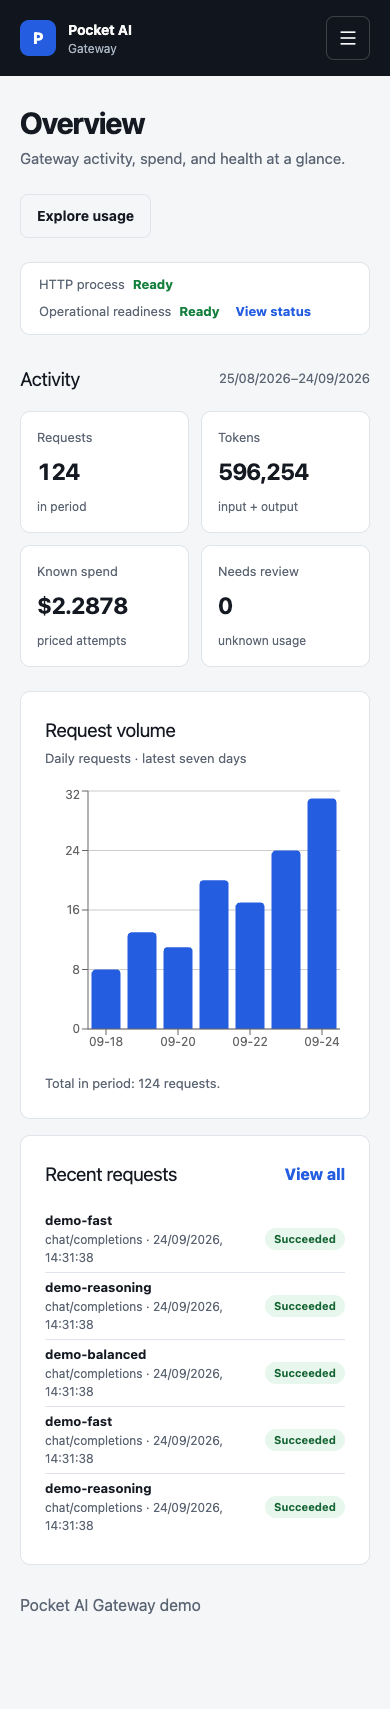
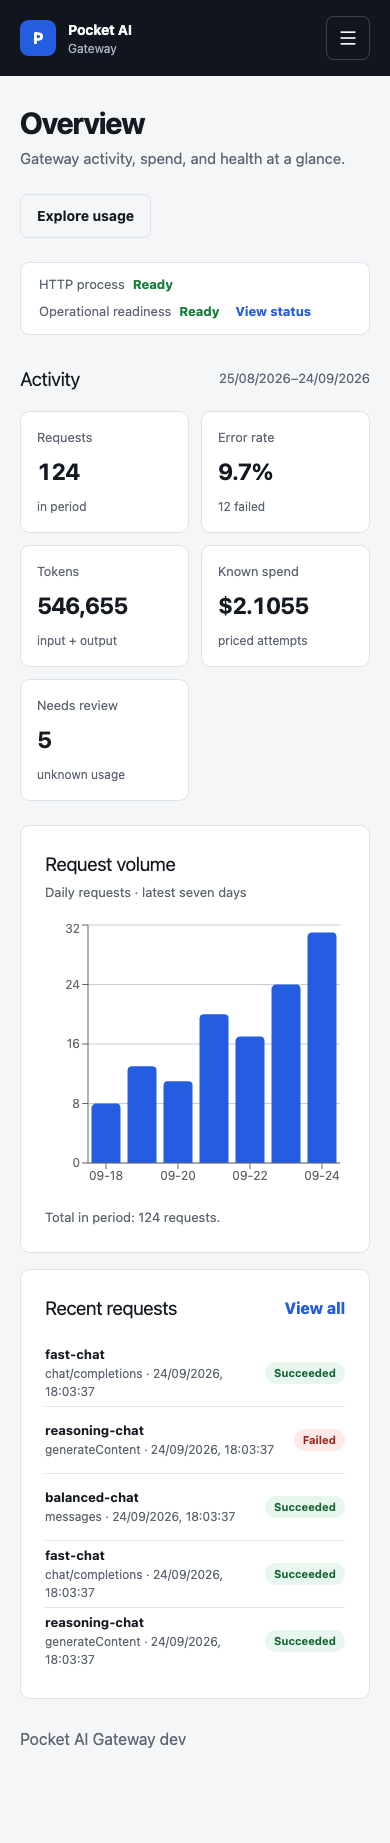
docs: refresh example gallery and release evidence

diff --git a/scripts/demo/seed.go b/scripts/demo/seed.go
@@ -54,7 +54,7 @@ func newDemo(ctx context.Context, origin string) (_ *demo, err error) {
 		return nil, err
 	}
 	authService := auth.New(d.store.SystemDB())
-	d.owner, _, err = authService.Claim(ctx, auth.ClaimInput{Email: "demo@example.test", DisplayName: "Demo owner", Password: d.password})
+	d.owner, _, err = authService.Claim(ctx, auth.ClaimInput{Email: "operator@example.test", DisplayName: "Sample operator", Password: d.password})
 	if err != nil {
 		return nil, err
 	}
@@ -74,7 +74,7 @@ func newDemo(ctx context.Context, origin string) (_ *demo, err error) {
 	var connectionIDs []string
 	for index, name := range []string{"fast", "balanced", "reasoning"} {
 		connection, createErr := providerService.CreateConnection(ctx, d.owner, providers.ConnectionInput{
-			Name: "Demo " + name, Adapter: "openai_compatible", BaseURL: d.upstream.URL + "/v1", Enabled: true, AllowPrivateNetwork: true, TimeoutMS: 5000,
+			Name: "Local " + name + " lane", Adapter: "openai_compatible", BaseURL: d.upstream.URL + "/v1", Enabled: true, AllowPrivateNetwork: true, TimeoutMS: 5000,
 		})
 		if createErr != nil {
 			return nil, createErr
@@ -83,29 +83,33 @@ func newDemo(ctx context.Context, origin string) (_ *demo, err error) {
 		if err = providerService.PutCredential(ctx, d.owner, connection.ID, "synthetic-demo-credential", ""); err != nil {
 			return nil, err
 		}
-		model, createErr := providerService.CreateUpstreamModel(ctx, d.owner, connection.ID, "demo-"+name, []string{"chat"})
+		model, createErr := providerService.CreateUpstreamModel(ctx, d.owner, connection.ID, name+"-chat", []string{"chat"})
 		if createErr != nil {
 			return nil, createErr
 		}
-		if _, err = providerService.CreatePublicModel(ctx, d.owner, "demo-"+name, "Demo "+name, "Synthetic local mock; prices and responses are illustrative.", model.ID, model.Capabilities); err != nil {
+		if _, err = providerService.CreatePublicModel(ctx, d.owner, name+"-chat", strings.ToUpper(name[:1])+name[1:]+" Chat", "Local mock with illustrative pricing and responses.", model.ID, model.Capabilities); err != nil {
 			return nil, err
 		}
 		cacheRate := "0.25"
 		_, err = usageService.CreatePrice(ctx, d.owner, usage.PriceInput{
-			ConnectionID: connection.ID, ModelID: "demo-" + name, InputUSDPerMillion: fmt.Sprint(index + 1), OutputUSDPerMillion: fmt.Sprint((index + 1) * 4), CacheReadUSDPerMillion: &cacheRate,
-			Source: "Synthetic demo price, not a provider quote", EffectiveFrom: time.Now().AddDate(0, 0, -8).UTC().Format(time.RFC3339),
+			ConnectionID: connection.ID, ModelID: name + "-chat", InputUSDPerMillion: fmt.Sprint(index + 1), OutputUSDPerMillion: fmt.Sprint((index + 1) * 4), CacheReadUSDPerMillion: &cacheRate,
+			Source: "Illustrative local price, not a provider quote", EffectiveFrom: time.Now().AddDate(0, 0, -8).UTC().Format(time.RFC3339),
 		})
 		if err != nil {
 			return nil, err
 		}
 	}
 	var secrets []string
-	for index, label := range []string{"Demo product", "Demo research", "Demo support"} {
+	for index, person := range []struct{ email, name, key string }{
+		{"operator@example.test", "Sample operator", "Product API"},
+		{"research@example.test", "Researcher", "Research Assistant"},
+		{"support@example.test", "Support analyst", "Support Copilot"},
+	} {
 		userID := d.owner.ID
 		if index > 0 {
 			user, code, createErr := users.New(d.store.SystemDB()).Create(ctx, d.owner, users.CreateInput{
-				Email: fmt.Sprintf("demo-%d@example.test", index), DisplayName: label, Role: "member",
-				Grants: users.Grants{Scopes: []string{"chat:generate", "models:read"}, ModelPatterns: []string{"demo-*"}, ConnectionIDs: connectionIDs},
+				Email: person.email, DisplayName: person.name, Role: "member",
+				Grants: users.Grants{Scopes: []string{"chat:generate", "models:read"}, ModelPatterns: []string{"*-chat"}, ConnectionIDs: connectionIDs},
 			})
 			if createErr != nil {
 				return nil, createErr
@@ -115,14 +119,14 @@ func newDemo(ctx context.Context, origin string) (_ *demo, err error) {
 			}
 			userID = user.ID
 		}
-		_, secret, createErr := keyService.Create(ctx, userID, keys.Input{Label: label, Scopes: []string{"chat:generate", "models:read"}, ModelPatterns: []string{"demo-*"}, ConnectionIDs: connectionIDs})
+		_, secret, createErr := keyService.Create(ctx, userID, keys.Input{Label: person.key, Scopes: []string{"chat:generate", "models:read"}, ModelPatterns: []string{"*-chat"}, ConnectionIDs: connectionIDs})
 		if createErr != nil {
 			return nil, createErr
 		}
 		secrets = append(secrets, secret)
 	}
 	gatewayHandler := gateway.NewWithMasterKey(d.store.SystemDB(), keyService, providerService, usageService, masterKey, origin)
-	operationService := operations.New(d.store, providerService, "demo", func(string) string { return "" })
+	operationService := operations.New(d.store, providerService, "dev", func(string) string { return "" })
 	d.handler = server.NewRuntime(d.store.SystemDB(), origin, usageService, providerService, operationService, gatewayHandler)
 	if err = d.seedRequests(ctx, secrets); err != nil {
 		return nil, err
@@ -153,18 +157,52 @@ func (d *demo) close() {
 }
 
 func (d *demo) seedRequests(ctx context.Context, secrets []string) error {
-	models := []string{"demo-fast", "demo-balanced", "demo-reasoning"}
+	models := []string{"fast-chat", "balanced-chat", "reasoning-chat"}
+	tasks := []string{
+		"Summarize a fictional support ticket.",
+		"Draft a product release note for an imaginary feature.",
+		"Classify a sample feedback message.",
+		"Suggest a title for a made-up knowledge-base article.",
+	}
 	for day, count := range []int{8, 13, 11, 20, 17, 24, 31} {
 		for index := range count {
-			body := fmt.Sprintf(`{"model":%q,"messages":[{"role":"user","content":"Synthetic demo request %d"}],"max_tokens":4096}`, models[index%3], index)
-			request := httptest.NewRequest(http.MethodPost, "/api/openai/v1/chat/completions", strings.NewReader(body)).WithContext(ctx)
+			model := models[index%len(models)]
+			prompt := fmt.Sprintf("Synthetic demo task %d: %s", index, tasks[(index+day)%len(tasks)])
+			status := http.StatusOK
+			if day == 6 && index%5 == 4 || day < 6 && index == count-2 {
+				status = http.StatusTooManyRequests
+				if (index+day)%2 == 0 {
+					status = http.StatusServiceUnavailable
+				}
+				prompt = fmt.Sprintf("MOCK_ERROR_%d: %s", status, prompt)
+			}
+			var path, body, authHeader, authValue string
+			secret := secrets[(index/2+day)%len(secrets)]
+			switch (index + day) % 3 {
+			case 0:
+				path = "/api/openai/v1/chat/completions"
+				body = fmt.Sprintf(`{"model":%q,"messages":[{"role":"user","content":%q}],"max_tokens":4096}`, model, prompt)
+				authHeader, authValue = "Authorization", "Bearer "+secret
+			case 1:
+				path = "/api/anthropic/v1/messages"
+				body = fmt.Sprintf(`{"model":%q,"messages":[{"role":"user","content":%q}],"max_tokens":4096}`, model, prompt)
+				authHeader, authValue = "x-api-key", secret
+			case 2:
+				path = "/api/gemini/v1beta/models/" + model + ":generateContent"
+				body = fmt.Sprintf(`{"contents":[{"role":"user","parts":[{"text":%q}]}],"generationConfig":{"maxOutputTokens":4096}}`, prompt)
+				authHeader, authValue = "x-goog-api-key", secret
+			}
+			request := httptest.NewRequest(http.MethodPost, path, strings.NewReader(body)).WithContext(ctx)
 			request.Host = strings.TrimPrefix(d.origin, "http://")
-			request.Header.Set("Authorization", "Bearer "+secrets[(index/2+day)%len(secrets)])
+			request.Header.Set(authHeader, authValue)
+			if authHeader == "x-api-key" {
+				request.Header.Set("anthropic-version", "2023-06-01")
+			}
 			request.Header.Set("Content-Type", "application/json")
 			response := httptest.NewRecorder()
 			d.handler.ServeHTTP(response, request)
-			if response.Code != http.StatusOK {
-				return fmt.Errorf("seed request: status %d: %s", response.Code, response.Body.String())
+			if status == http.StatusOK && response.Code != http.StatusOK || status != http.StatusOK && response.Code != http.StatusTooManyRequests && response.Code != http.StatusBadGateway && response.Code != http.StatusServiceUnavailable {
+				return fmt.Errorf("seed %s request: unexpected status %d: %s", path, response.Code, response.Body.String())
 			}
 			requestID := response.Header().Get("X-Pocket-AI-Request-ID")
 			if requestID == "" {
@@ -203,13 +241,22 @@ func mockProvider(response http.ResponseWriter, request *http.Request) {
 		return
 	}
 	var input struct {
-		Model string `json:"model"`
+		Model    string          `json:"model"`
+		Messages json.RawMessage `json:"messages"`
 	}
 	if err := json.NewDecoder(http.MaxBytesReader(response, request.Body, 1<<20)).Decode(&input); err != nil {
 		http.Error(response, "Invalid demo request", http.StatusBadRequest)
 		return
 	}
-	inputTokens := map[string]int{"demo-fast": 1200, "demo-balanced": 3600, "demo-reasoning": 6400}[input.Model]
+	for _, status := range []int{http.StatusTooManyRequests, http.StatusServiceUnavailable} {
+		if strings.Contains(string(input.Messages), fmt.Sprintf("MOCK_ERROR_%d", status)) {
+			response.Header().Set("Content-Type", "application/json")
+			response.WriteHeader(status)
+			_ = json.NewEncoder(response).Encode(map[string]any{"error": map[string]string{"message": "Synthetic demo provider error", "type": "demo_error", "code": fmt.Sprintf("mock_%d", status)}})
+			return
+		}
+	}
+	inputTokens := map[string]int{"fast-chat": 1200, "balanced-chat": 3600, "reasoning-chat": 6400}[input.Model]
 	outputTokens := inputTokens / 3
 	response.Header().Set("Content-Type", "application/json")
 	_ = json.NewEncoder(response).Encode(map[string]any{

diff --git a/scripts/demo/seed_test.go b/scripts/demo/seed_test.go
@@ -7,6 +7,7 @@ import (
 	"os"
 	"path/filepath"
 	"testing"
+	"time"
 
 	"github.com/bobalazek/pocket-ai-gateway/internal/features/auth"
 	"github.com/bobalazek/pocket-ai-gateway/internal/features/providers"
@@ -41,8 +42,18 @@ func TestDemoSeedIsDisposableAndPopulatesUsage(t *testing.T) {
 		}
 	}
 	summary, err := usage.New(demo.store.SystemDB()).Summary(ctx, demo.owner, usage.UsageQuery{})
-	if err != nil || summary.Requests != 124 || summary.Attempts != 124 || len(summary.Points) != 7 || summary.InputTokens == 0 || summary.CacheReadInputTokens == 0 || summary.KnownCostUSD == "0" || summary.UnknownAttempts != 0 {
+	if err != nil || summary.Requests != 124 || summary.Attempts != 124 || len(summary.Points) != 7 || summary.InputTokens == 0 || summary.CacheReadInputTokens == 0 || summary.KnownCostUSD == "0" || summary.UnknownAttempts != 5 {
 		t.Fatalf("usage: %+v, %v", summary, err)
+	}
+	var succeeded, failed, recent, recentFailed, dialects, failedDialects, models, keyCount, connectionCount int
+	if err := demo.store.SystemDB().QueryRowContext(ctx, `SELECT COUNT(*) FILTER (WHERE state='succeeded'),COUNT(*) FILTER (WHERE state='failed'),COUNT(*) FILTER (WHERE started_at>=?),COUNT(*) FILTER (WHERE state='failed' AND started_at>=?),COUNT(DISTINCT dialect),COUNT(DISTINCT dialect) FILTER (WHERE state='failed'),COUNT(DISTINCT model_id),COUNT(DISTINCT key_id) FROM requests`, time.Now().Add(-time.Hour).UnixMilli(), time.Now().Add(-time.Hour).UnixMilli()).Scan(&succeeded, &failed, &recent, &recentFailed, &dialects, &failedDialects, &models, &keyCount); err != nil {
+		t.Fatal(err)
+	}
+	if err := demo.store.SystemDB().QueryRowContext(ctx, "SELECT COUNT(DISTINCT connection_id) FROM attempts").Scan(&connectionCount); err != nil {
+		t.Fatal(err)
+	}
+	if succeeded != 112 || failed != 12 || recent != 31 || recentFailed != 6 || dialects != 3 || failedDialects != 3 || models != 3 || keyCount != 3 || connectionCount != 3 {
+		t.Fatalf("requests: succeeded=%d failed=%d recent=%d recent_failed=%d dialects=%d failed_dialects=%d models=%d keys=%d connections=%d", succeeded, failed, recent, recentFailed, dialects, failedDialects, models, keyCount, connectionCount)
 	}
 	var projected int
 	if err := demo.store.DataDB().QueryRowContext(ctx, "SELECT SUM(requests) FROM usage_daily").Scan(&projected); err != nil || projected != 124 {

diff --git a/docs/guides/demo.md b/docs/guides/demo.md
@@ -6,13 +6,13 @@ From a source checkout with the [build prerequisites](deployment.md#build-once-d
 ./scripts/demo.sh
 ```
 
-The command builds the embedded dashboard and starts a demo at `http://127.0.0.1:18084/_/`. Sign in with `demo@example.test` and the temporary password printed in the terminal. Use `./scripts/demo.sh --port 0` to select an available port automatically.
+The command builds the embedded dashboard and starts an example instance at `http://127.0.0.1:18084/_/`. Sign in with `operator@example.test` and the temporary password printed in the terminal. Use `./scripts/demo.sh --port 0` to select an available port automatically.
 
-The demo contains three synthetic users, three mock provider connections, three public models, three scoped keys, illustrative token prices, and 124 requests spread across seven days. Requests pass through the real gateway authorization, routing, accounting, and history projection paths; the local mock supplies the text and token counts. Timestamps are shifted only inside the disposable fixture to populate the charts. The prices and usage are examples, not provider quotes or performance measurements.
+The disposable instance contains three example users, three local mock provider connections, three public models, three scoped keys, illustrative token prices, and 124 requests across seven days: 112 succeed and 12 fail. The latest hour has six failures among 31 requests, so the error chart and local alert are visible. Requests use the real gateway authorization, routing, accounting, and history projection paths; the loopback mock supplies responses and token counts. Timestamps are shifted only inside the fixture to populate the charts. Prices and usage are examples, not provider quotes or performance measurements.
 
 ## Screenshots
 
-These are full-page browser captures of the embedded dashboard, with a 1440-pixel desktop viewport and a 390-pixel mobile viewport. Every account, provider, key, request, and price shown comes from the disposable demo. Prices are examples, not provider quotes.
+These are full-page captures and focused close-ups of the embedded dashboard, with 1440-pixel desktop and 390-pixel mobile viewports. Every account, provider, key, request, and price shown comes from the disposable example instance. Prices are examples, not provider quotes.
 
 Select an image to open the full-resolution capture.
 
@@ -36,6 +36,10 @@ Select an image to open the full-resolution capture.
 | --- | --- |
 | [![Provider request, cost, latency, and failed-attempt charts](../images/demo-analytics-providers.png)](../images/demo-analytics-providers.png) | [![Protocol, operation, and outcome charts](../images/demo-analytics-operations.png)](../images/demo-analytics-operations.png) |
 
+| Failed requests by day | Failed request history |
+| --- | --- |
+| [![Daily failed requests with a recent spike](../images/demo-analytics-failures.png)](../images/demo-analytics-failures.png) | [![Request history filtered to failures](../images/demo-preview-request-errors.png)](../images/demo-page-request-errors.png) |
+
 | Usage and limits | Request history |
 | --- | --- |
 | [![Full desktop usage page with synthetic charts and cost data](../images/demo-page-usage.png)](../images/demo-page-usage.png)<br>Daily accounting, limits, and versioned prices explain the fixture's cost. | [![Full desktop request history with synthetic gateway traffic](../images/demo-page-requests.png)](../images/demo-page-requests.png)<br>The list shows traffic generated through the gateway and local mock provider. |
@@ -44,11 +48,27 @@ Select an image to open the full-resolution capture.
 | --- |
 | [![Full desktop request detail with attempts and token accounting](../images/demo-page-request-detail.png)](../images/demo-page-request-detail.png)<br>A request detail traces attempts, token use, and its example cost. |
 
+| Failed request detail |
+| --- |
+| [![Failed request detail with gateway accounting and a failed attempt](../images/demo-page-failed-request.png)](../images/demo-page-failed-request.png)<br>A failed request keeps its attempt and cost provenance without capturing the prompt. |
+
 ### Gateway setup
 
 | Providers | Models |
 | --- | --- |
-| [![Full desktop providers page with three mock connections](../images/demo-page-providers.png)](../images/demo-page-providers.png)<br>Three mock connections keep the demo offline. | [![Full desktop models page showing published routes](../images/demo-page-models.png)](../images/demo-page-models.png)<br>Public model names route to mock upstream targets. |
+| [![Full desktop providers page with three mock connections](../images/demo-page-providers.png)](../images/demo-page-providers.png)<br>Each local connection shows its base URL and upstream models. | [![Full desktop models page showing published routes](../images/demo-page-models.png)](../images/demo-page-models.png)<br>Public model names route to mock upstream targets. |
+
+| Connection and base URL | Model route |
+| --- | --- |
+| [![One provider connection with its base URL and upstream model](../images/demo-providers-connection.png)](../images/demo-providers-connection.png) | [![A public model route with its upstream targets](../images/demo-models-route.png)](../images/demo-models-route.png) |
+
+### Provider presets
+
+These are unsubmitted forms populated by the backend preset catalog. Selecting a preset does not create a connection or call the provider.
+
+| OpenAI base URL | Replicate base URL |
+| --- | --- |
+| [![OpenAI preset form showing reviewed base URL and supported operations](../images/demo-providers-preset-openai.png)](../images/demo-providers-preset-openai.png) | [![Replicate preset form showing reviewed base URL and prediction operation](../images/demo-providers-preset-replicate.png)](../images/demo-providers-preset-replicate.png) |
 
 | API keys | Media jobs |
 | --- | --- |
@@ -66,7 +86,11 @@ Select an image to open the full-resolution capture.
 
 | Settings and recovery | Status |
 | --- | --- |
-| [![Full desktop settings and recovery page](../images/demo-page-settings.png)](../images/demo-page-settings.png)<br>Backup is disabled in this demo because no archive encryption key is configured; recovery controls remain visible. | [![Full desktop status page with instance health](../images/demo-page-status.png)](../images/demo-page-status.png)<br>Status combines readiness and local runtime diagnostics. |
+| [![Full desktop settings and recovery page](../images/demo-page-settings.png)](../images/demo-page-settings.png)<br>Backup is disabled in this instance because no archive encryption key is configured; recovery controls remain visible. | [![Full desktop status page with instance health](../images/demo-page-status.png)](../images/demo-page-status.png)<br>Status combines readiness, runtime diagnostics, and a recent-error alert. |
+
+| Local alert | Account menu |
+| --- | --- |
+| [![Local high-error alert on the status page](../images/demo-status-alerts.png)](../images/demo-status-alerts.png) | [![Account menu anchored to the bottom of a short desktop viewport](../images/demo-desktop-account-menu.png)](../images/demo-desktop-account-menu.png) |
 
 | Account |
 | --- |
@@ -94,8 +118,8 @@ Stop with Ctrl+C to close the servers and delete the temporary databases and key
 go test ./scripts/demo -count=1
 ```
 
-The test checks loopback-only seeded endpoints, successful sign-in, request/token/cost totals, seven daily buckets, projected history, temporary-directory cleanup, and that an existing operator directory stays untouched.
+The test checks loopback-only seeded endpoints, sign-in, successful and failed requests across three client protocols, the recent alert window, token/cost totals, seven daily buckets, projected history, temporary-directory cleanup, and that an existing operator directory stays untouched.
 
-All 20 full-page and six analytics close-up captures were regenerated and verified September 24, 2026. The browser check confirmed populated pages and charts, a key-filtered request link after Refresh, headings, runtime status, PNG dimensions, and no horizontal overflow at 1440- and 390-pixel widths. The demo has no external provider credentials or media jobs; its backup warning reflects the absence of a demo backup key.
+All 39 captures were regenerated and verified September 24, 2026, including 22 full pages, preset examples, analytics and status close-ups, and a 700-pixel-tall desktop account-menu check. Before capturing, the browser verifies the expected synthetic counts and loopback-only mock connections. It also checks populated pages, errors, the local alert, a key-filtered request link after Refresh, headings, PNG dimensions, and no horizontal overflow at 1440- and 390-pixel widths. The instance has no external provider credentials or media jobs; its backup warning reflects the absence of a backup key.
 
-To reproduce the gallery, start `./scripts/demo.sh`, then run `PAG_DEMO_PASSWORD=<printed temporary password> node scripts/capture-demo-screenshots.mjs`. The [capture manifest](../images/demo-screenshots.json) records each image's viewport and full-page height.
+To reproduce the gallery, start `./scripts/demo.sh`, then run `PAG_DEMO_PASSWORD=<printed temporary password> node scripts/capture-demo-screenshots.mjs`. The [capture manifest](../images/demo-screenshots.json) records each image's capture dimensions and viewport where applicable.

diff --git a/README.md b/README.md
@@ -37,11 +37,11 @@ Use the model ID you published in place of `assistant`. Compose binds to localho
 - **Separate client APIs.** OpenAI, Anthropic, and Gemini SDKs connect through their own URL namespaces. Supported operations have tested request, response, and streaming behavior.
 - **One model name, multiple targets.** Publish stable model IDs and route them with fixed, fallback, weighted, cost, or observed-latency strategies.
 - **Keys and limits.** Manage users and scoped API keys, then apply request, token, concurrency, quota, and spend policies by instance, user, key, or provider connection.
-- **Usage you can trace.** Compare traffic and known spend by API key, model, and provider; inspect attempts, cache usage, price versions, cost restatements, and audit events.
+- **Usage you can trace.** Compare traffic, errors, and known spend by API key, model, and provider; inspect attempts, cache usage, price versions, cost restatements, and audit events. Local status alerts flag sustained failures and backup or storage problems.
 - **Local operations.** Provider secrets are encrypted. The server includes backup and restore tools, local or S3-compatible scheduled backups, and no public telemetry.
 - **More than text.** The tested subset includes image and audio operations, live WebSocket transports, durable media jobs, and trusted JavaScript transforms for custom adapters.
 
-Built-in presets include OpenAI, Anthropic, Gemini, OpenRouter, Z.AI, MiniMax, Ollama, Together, and Replicate. A preset does not imply that every model supports every operation. See the [compatibility matrix](docs/project/compatibility.md) and [provider evidence](docs/project/provider-certification.md) for exact coverage.
+Built-in presets include OpenAI, Anthropic, Gemini, OpenRouter, Z.AI, MiniMax, Ollama, Together, and Replicate. Each preset fills its reviewed provider base URL; one connection can hold many upstream models. A preset does not imply that every model supports every operation. See [provider URLs and evidence](docs/project/provider-certification.md), the [Replicate model guide](docs/guides/adapters.md), and the [compatibility matrix](docs/project/compatibility.md).
 
 ## SDK base URLs
 
@@ -55,13 +55,21 @@ Application requests use a scoped gateway API key. Dashboard sign-in uses a sepa
 
 ## Explore the dashboard
 
-From a source checkout, `./scripts/demo.sh` starts a disposable instance with three mock providers and seven days of synthetic requests. It needs no provider credential and cannot seed an existing data directory. The [demo guide](docs/guides/demo.md) has login instructions and more screenshots.
+These screens use synthetic traffic in a disposable local instance. No real provider credential or paid AI request is involved; a deployed gateway shows its own data. Run `./scripts/demo.sh` to explore it, or browse the [full screenshot gallery](docs/guides/demo.md#screenshots).
 
-| Analytics | Providers | Status |
-| --- | --- | --- |
-| [![Analytics traffic charts with synthetic request and cost data](docs/images/demo-analytics-traffic.png)](docs/images/demo-page-analytics.png) | [![Full providers page with three mock connections](docs/images/demo-page-providers.png)](docs/images/demo-page-providers.png) | [![Full status page with operational checks](docs/images/demo-page-status.png)](docs/images/demo-page-status.png) |
+| Analytics | Failed requests |
+| --- | --- |
+| [![Analytics with request volume, failed requests, spend, and error rate](docs/images/demo-preview-analytics.png)](docs/images/demo-page-analytics.png) | [![Request history filtered to failed requests](docs/images/demo-preview-request-errors.png)](docs/images/demo-page-request-errors.png) |
 
-[Open the per-key charts](docs/images/demo-analytics-api-keys.png), [provider charts](docs/images/demo-analytics-providers.png), [usage controls](docs/images/demo-page-usage.png), [request history](docs/images/demo-page-requests.png), or the [full gallery](docs/guides/demo.md#screenshots).
+| Provider connection | Model routing |
+| --- | --- |
+| [![Provider base URL and upstream models under one connection](docs/images/demo-providers-connection.png)](docs/images/demo-page-providers.png) | [![Public model with routing strategy and upstream targets](docs/images/demo-models-route.png)](docs/images/demo-page-models.png) |
+
+| Usage | Status and alerts |
+| --- | --- |
+| [![Usage totals, token chart, and known spend](docs/images/demo-preview-usage.png)](docs/images/demo-page-usage.png) | [![Runtime checks and local high-error alert](docs/images/demo-preview-status.png)](docs/images/demo-page-status.png) |
+
+[OpenAI](docs/images/demo-providers-preset-openai.png) and [Replicate](docs/images/demo-providers-preset-replicate.png) preset previews show their base URLs and supported operations; selecting a preset does not connect or call its provider.
 
 ## Run one executable
 

diff --git a/docs/plan/README.md b/docs/plan/README.md
@@ -149,6 +149,12 @@ The Analytics view now shows daily trends and ranked API-key, user, model, provi
 
 The local quick verification gate passed: formatting, generated/OpenAPI/notices checks, vet/staticcheck, all Go tests, embedded dashboard and Linux amd64 builds, TypeScript, and 84 frontend/SDK tests. After the final rolling-Refresh and small-cost-label fixes, the dashboard build, TypeScript, and all 85 frontend/SDK tests passed; the focused usage race suite passed in 173.737 seconds. Tests cover role isolation, cross-boundary retries, fallback failures, nonzero nanodollar labels, and filter-preserving request links. The disposable demo and 26 browser screenshots were rebuilt locally: 20 full pages and six readable analytics close-ups. Capture checked loaded charts, a key-filtered request link after Refresh, headings, PNG dimensions, and horizontal overflow. No GitHub workflow or paid provider was invoked. Large-history analytics latency and keyboard navigation remain to be measured before claiming production-scale performance or a complete accessibility review.
 
+### Reliability gallery and release check — 2026-09-24
+
+The dashboard now uses authoritative request outcomes for failure counts and error rates. Local status alerts cover an unavailable store, failed backup, and a high rate of recently **completed** failed requests; the completion-time query has an index and a regression for requests that started outside the hour. The disposable example contains 124 requests, including 12 final failures and six of 31 completed requests failing in the latest hour. Provider cards show each connection's base URL and upstream models, while the Replicate guide explains how many differing models share one connection. The account menu is pinned to the bottom of the desktop sidebar.
+
+The final local quick gate passed formatting, generation/OpenAPI/notices checks, vet/staticcheck, all Go tests, dashboard and Linux amd64 builds, TypeScript, and 86 frontend/SDK tests. Focused operations/example race tests, the rebuilt standalone-binary smoke, Docker Compose configuration, design-pattern scan, documentation links, and diff whitespace checks also passed. All 39 browser captures were regenerated from a fingerprinted loopback-only fixture: 22 full pages, 12 close-ups, and five viewport previews. The capture checked loaded figures, failed-request history, alerts, mobile overflow, preset forms, and the account menu at 1440 × 700. Independent code and documentation reviews found no unresolved issue. No GitHub workflow or real AI-provider call was used; live provider certification and final tagged-artifact checks remain separate release gates.
+
 Implement one bounded work item at a time in this repository. Update its status and evidence after checks pass. Review financial/security/data-loss boundaries before declaring the containing phase complete. Do not generate all future directories, tables, interfaces, or placeholder endpoints upfront.
 
 The v0.1 implementation phases are complete, with the documented Phase 8–9 compatibility subset implemented. Before publication, select the final candidate, verify its Linux artifacts and sustained resource behavior, and configure signing/reporting/publication access. The [release checklist](../project/release-checklist.md) tracks those gates; [human tasks](../project/human-tasks.md) track external prerequisites. Additional vendor API families and remote storage remain separate implementation work in the [API parity inventory](../project/api-parity-inventory.md) and decisions.

diff --git a/docs/project/release-checklist.md b/docs/project/release-checklist.md
@@ -12,7 +12,7 @@
 - [x] An encrypted backup restores into a clean Docker data volume with the matching key; the restored instance passes `/readyz` and sign-in.
 - [x] Automated suites separately cover pre-migration snapshots, encrypted restore, and failed self-update rollback.
 - [x] `./scripts/update-e2e.sh` checks real Linux CLI dry-run/apply, the production readiness probe with a public domain configured, and rollback after both stores and the master key change. Verified on Linux arm64 with disposable v1.0.0/v1.1.0 binaries and a deliberately broken signed v1.2.0 fixture; repeat on each final release architecture.
-- [x] A [disposable demo](../guides/demo.md) populates users, models, keys, priced usage, and seven days of history; 26 screenshots cover analytics, requests, configuration, and administration. It cannot seed an existing data directory.
+- [x] A [disposable example instance](../guides/demo.md) populates users, models, keys, priced usage, final failures, and seven days of history; 39 screenshots cover analytics, alerts, requests, providers, configuration, and administration. It cannot seed an existing data directory or call a real AI provider.
 - [x] A [repeatable Linux resource check](benchmark.md#linux-beforeafter--september-22-2026) records the artifact/environment, 50 JSON requests/second, five minutes with 50 streams, per-minute memory/goroutine ranges, management responsiveness, and post-load cleanup. The fixed run settled all 10,714 requests without errors; peak RSS was 51.82 MiB and goroutines returned to 13 after cooldown. Claims remain bounded to this workload and host.
 - [x] `llms.txt`, the [operator skill](../../skills/pocket-ai-gateway-ops/SKILL.md), deployment/backup/recovery guides, and the [API parity inventory](api-parity-inventory.md) describe the supported subset and its limits.
 - [x] No unresolved security, data-loss, quota, credential, or false-compatibility finding remains in the source candidate review.
